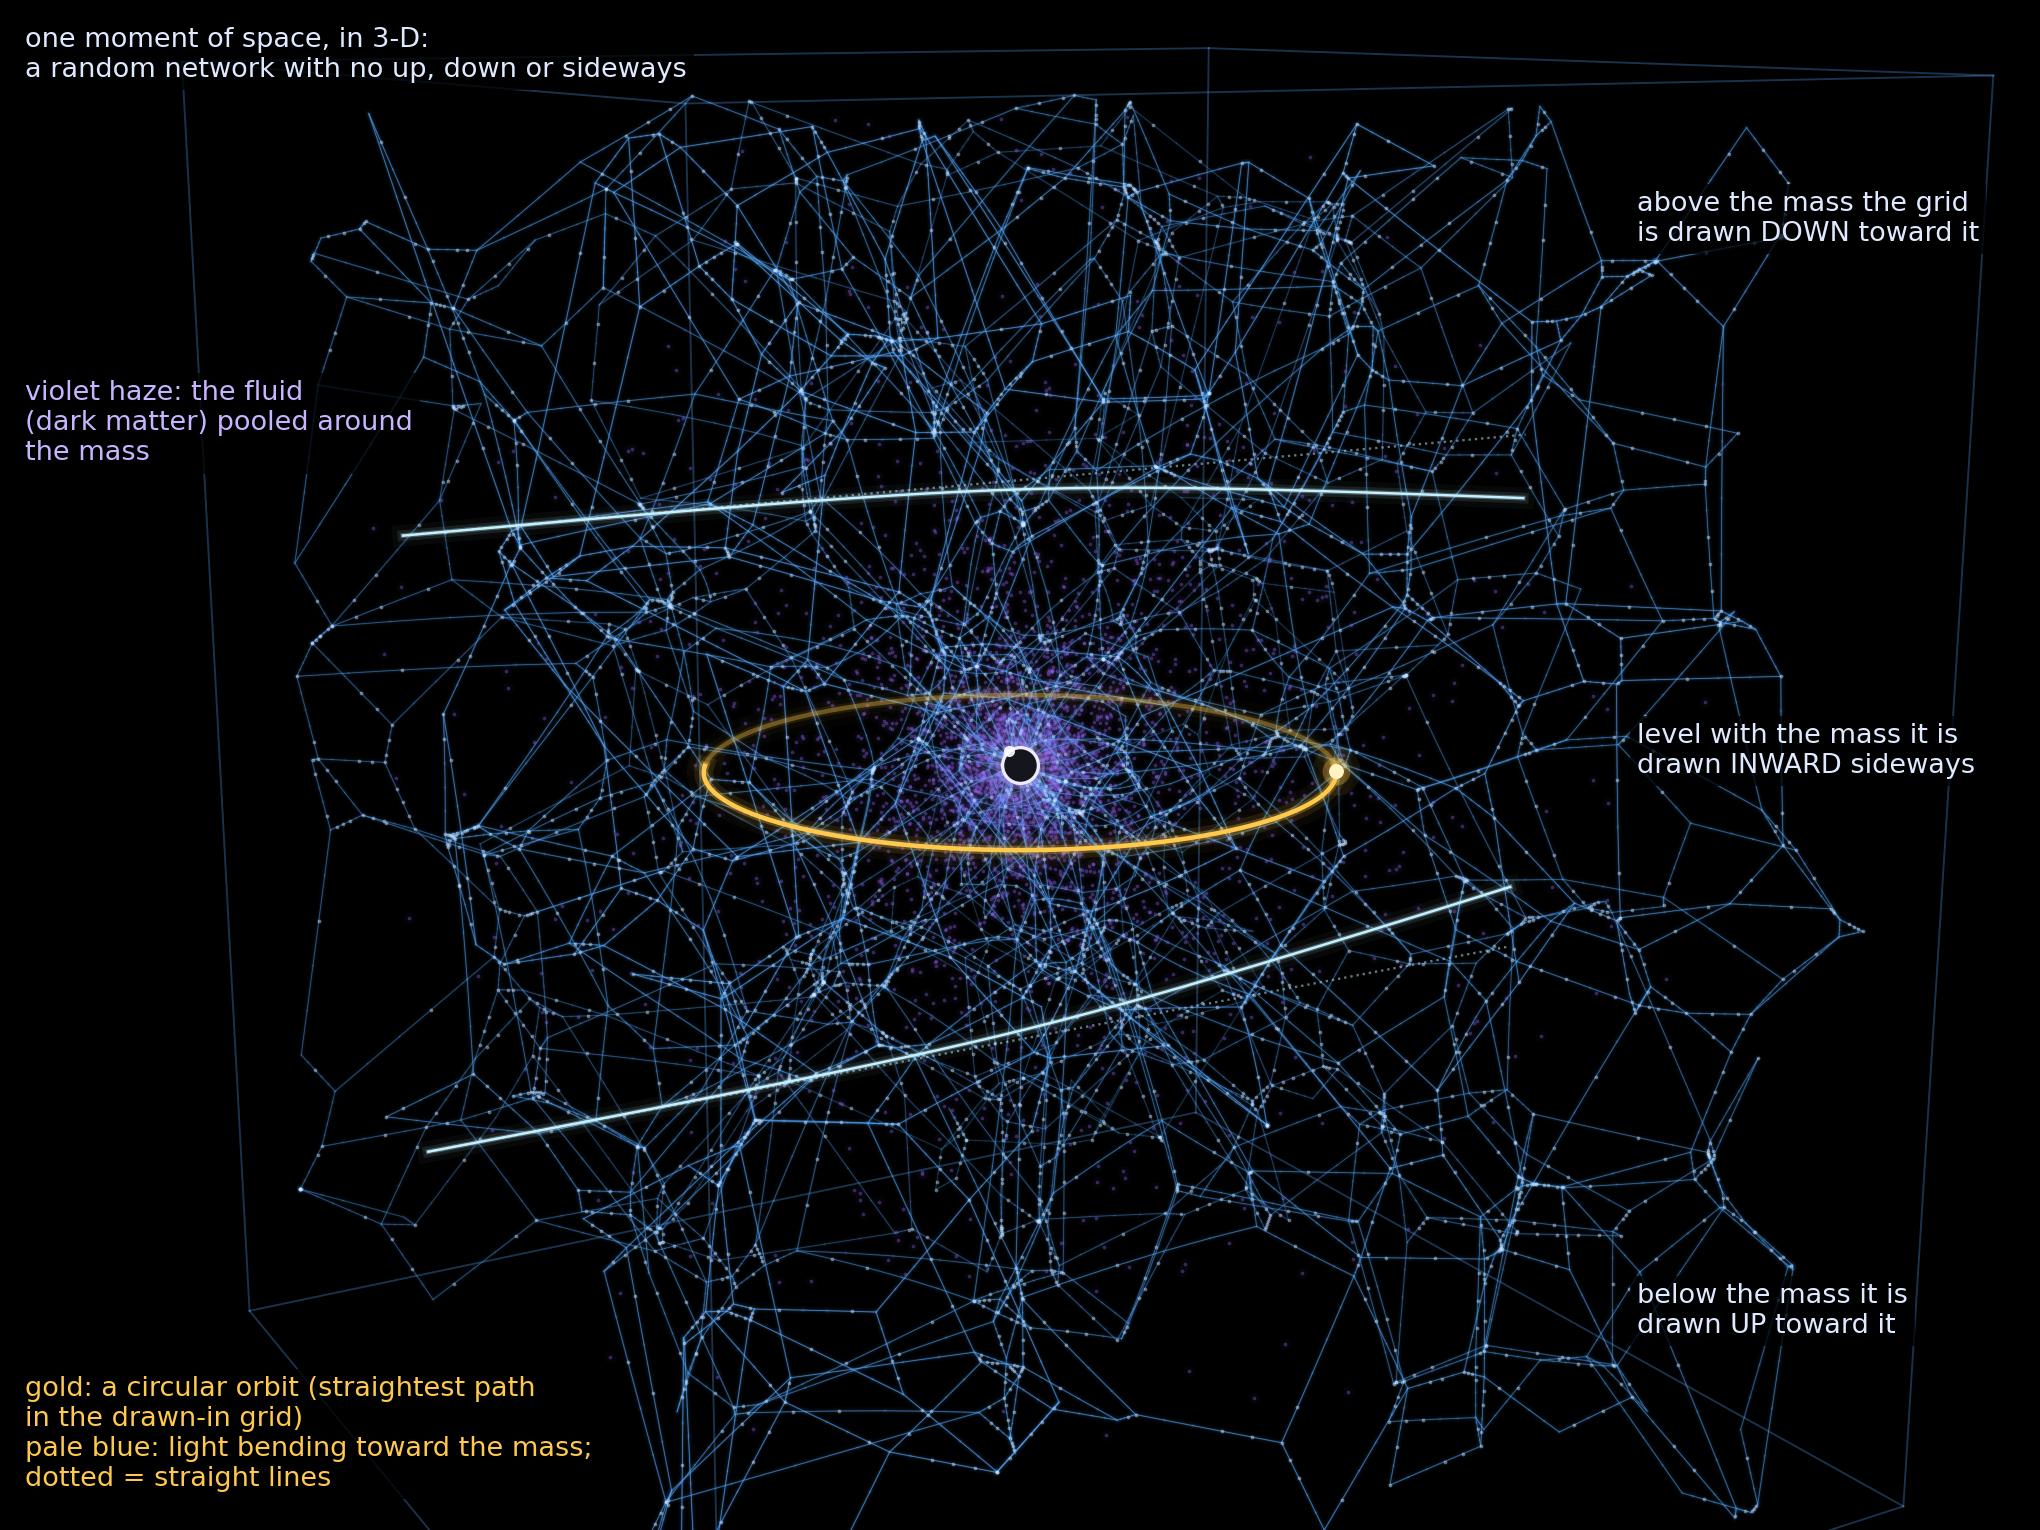
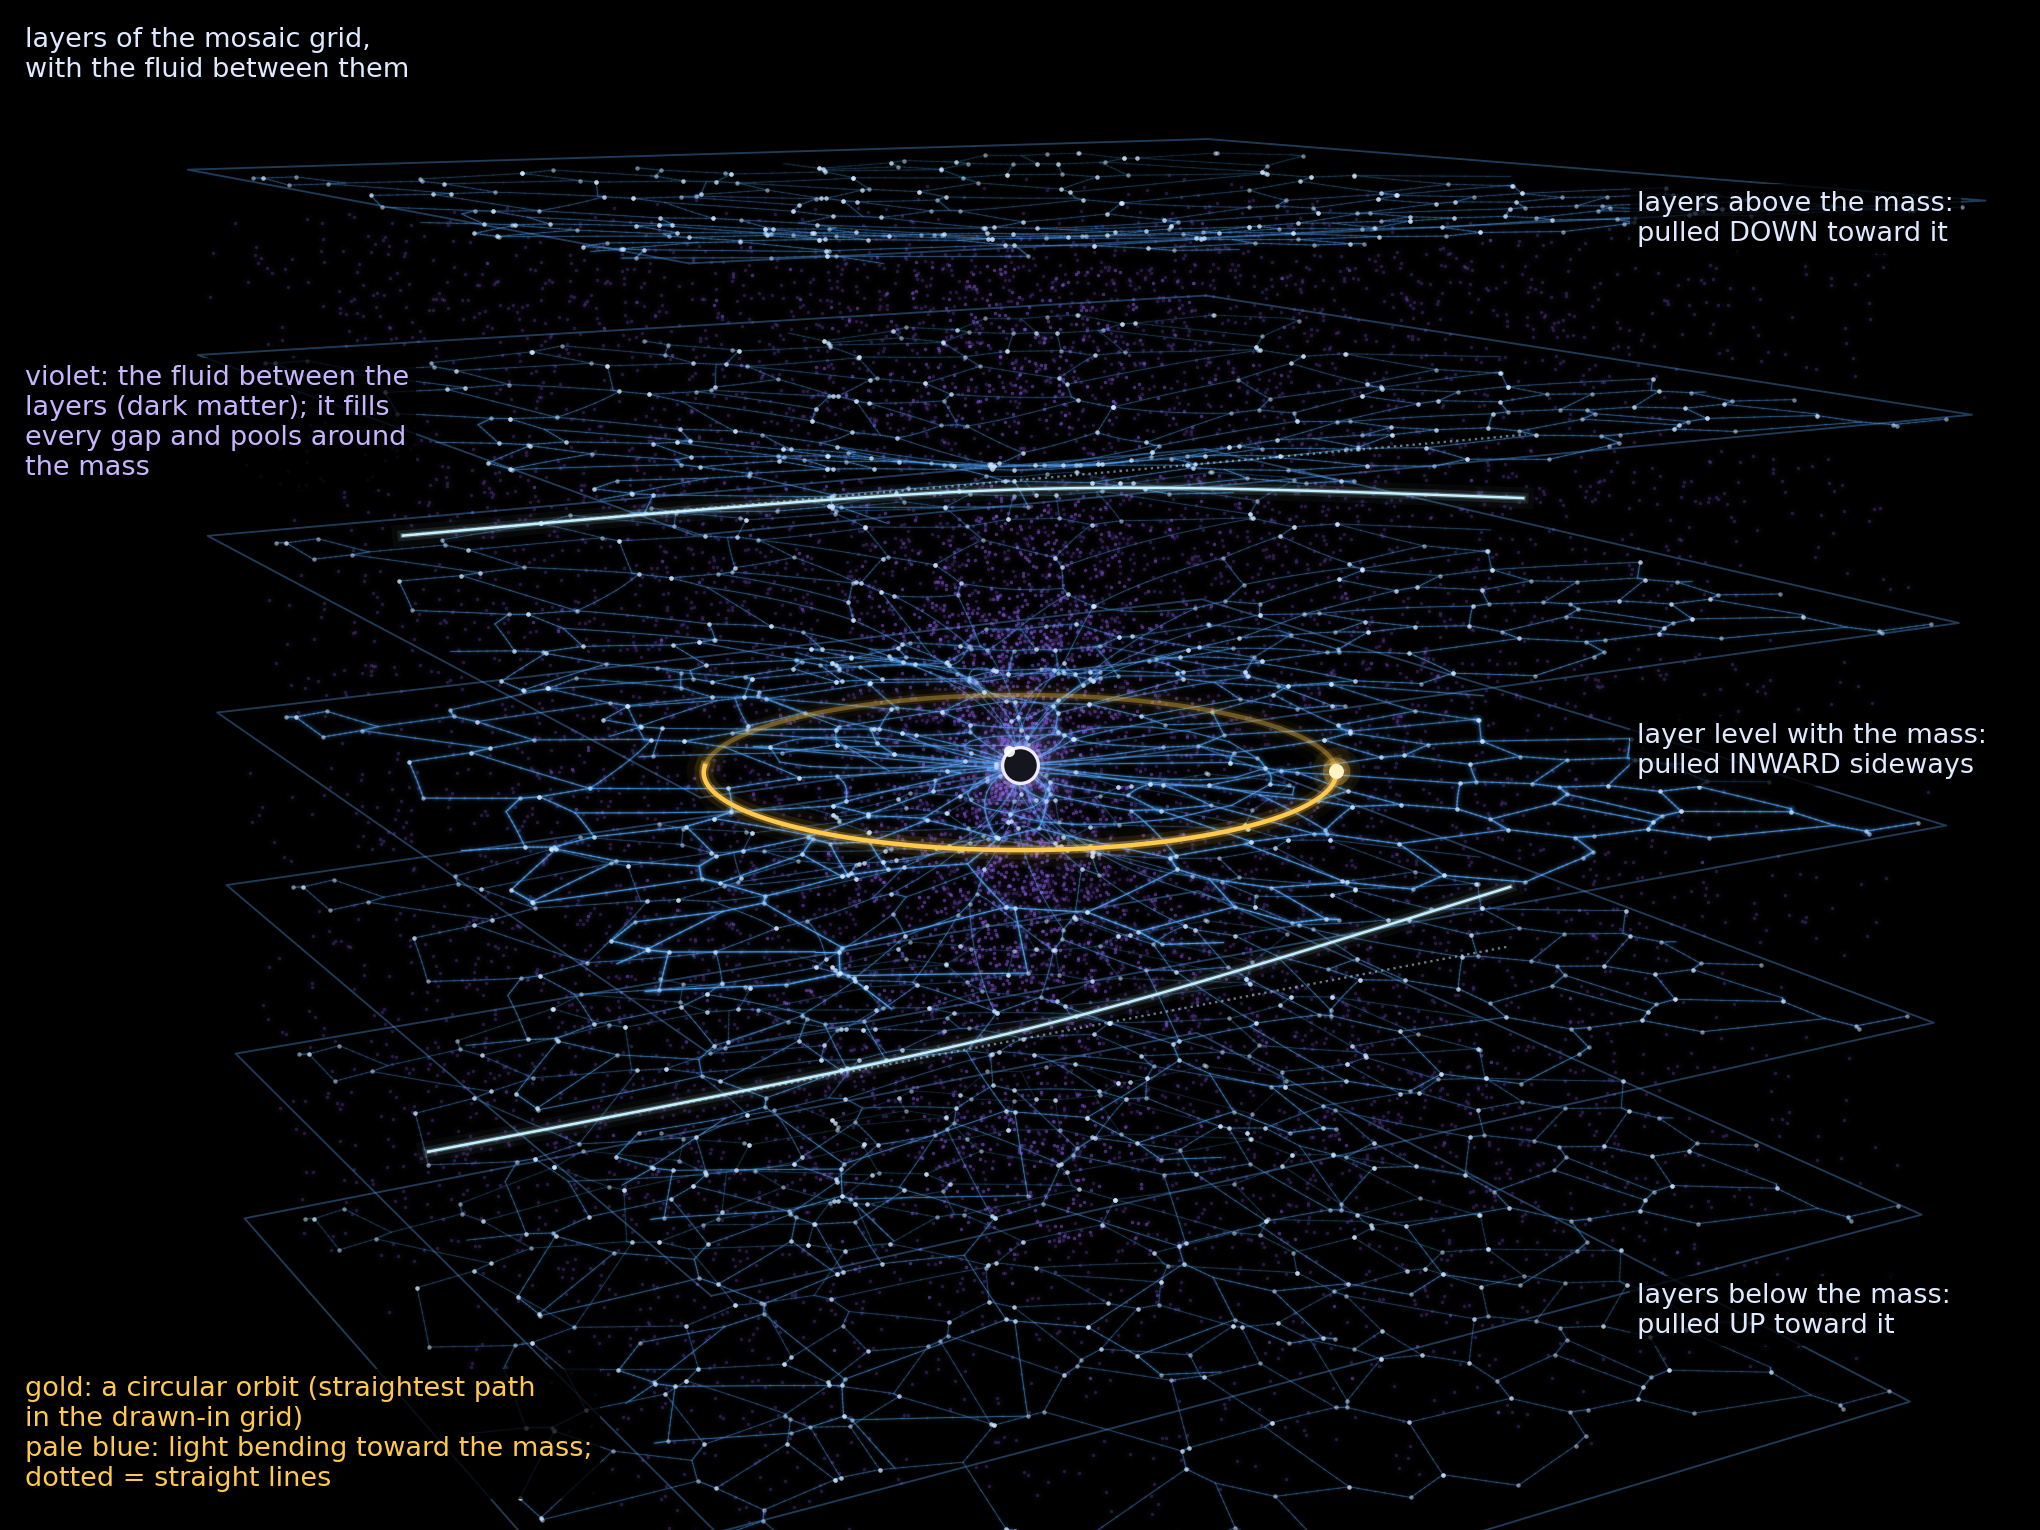
Cover: seven mosaic layers with fluid between them, no rods; caption notes the layer-reading open point
Claude-Session: https://claude.ai/code/session_016k7v6sHn149ac7ZSsVGsYx

diff --git a/paper/figures/make_hero3d.py b/paper/figures/make_hero3d.py
@@ -54,40 +54,28 @@ def ray(p0, v0, k=0.045, T=2.6):
     s = solve_ivp(f, [0, T], np.r_[p0, v0], max_step=0.004, rtol=1e-9); X = s.y[:3].T
     return X[np.all(np.abs(X[:, :2]) <= 1.0, axis=1)]
 
-
-# ---- true 3-D random network (no planes, no preferred direction) ----
-P3 = np.random.default_rng(9).uniform(-1.15, 1.15, (340, 3)); V3 = Voronoi(P3); NET = []
-for rv in V3.ridge_vertices:
-    if -1 in rv: continue
-    poly = V3.vertices[rv]
-    if np.any(np.abs(poly) > 1.0): continue
-    for i in range(len(poly)):
-        a, b = poly[i], poly[(i + 1) % len(poly)]; NET.append((tuple(np.round(a, 9)), tuple(np.round(b, 9))))
-NET = np.array(list({tuple(sorted(e)) for e in NET}))          # unique edges
-def net_segments():
-    segs = []
-    for a, b in NET:
-        t = np.linspace(0, 1, 6)[:, None]; pts = a + (b - a)*t; q = pull(pts)
-        segs += [np.array([q[i], q[i + 1]]) for i in range(5)]
-    return np.array(segs)
-
 def render(labels):
     fig = plt.figure(figsize=(12, 9), facecolor="black"); ax = fig.add_axes([0, 0, 1, 1]); ax.set_facecolor("black")
     ax.set_xlim(-1.62, 1.62); ax.set_ylim(-1.12, 1.12); ax.axis("off")
-    # fluid: a round cloud pooled around the mass (dark matter halo), drawn faint
-    n = 5000; u = rng.uniform(0, 1, n); r = 0.2*(u/(1 - u + 0.02))**0.8; r = r[(r < 1.1) & (r > 0.05)]
-    v = rng.normal(size=(len(r), 3)); v /= np.linalg.norm(v, axis=1, keepdims=True); F = v*r[:, None]
-    F = F[np.all(np.abs(F) <= [1, 1, 0.95], axis=1)]; F2, _ = proj(F)
-    ax.scatter(*F2.T, s=24, color=FLU, alpha=0.03, lw=0, zorder=1); ax.scatter(*F2.T, s=2.5, color=FLU, alpha=0.35, lw=0, zorder=1)
-    # the grid: a random 3-D network (cell edges), every part drawn in toward the mass
-    segs = net_segments(); glow_lines(ax, segs, GRID, width=0.55, zo=3, alpha=0.85)
-    nodes = np.unique(segs.reshape(-1, 3), axis=0); n2, _ = proj(nodes[::3])
-    ax.scatter(*n2.T, s=2.5, color="#d5e8ff", alpha=0.45, lw=0, zorder=4)
-    box = np.array([[x, y, z] for x in (-1, 1) for y in (-1, 1) for z in (-1, 1)])
-    for i in range(8):
-        for j in range(i + 1, 8):
-            if np.sum(box[i] != box[j]) == 1:
-                b2, _ = proj(np.array([box[i], box[j]])); ax.plot(*b2.T, color=GRID, lw=0.8, alpha=0.3, zorder=2)
+    # fluid between the layers: a thin 'ocean' filling every gap, thicker where it has pooled around the mass
+    for z_lo, z_hi in zip(PLANES[:-1], PLANES[1:]):
+        nb = 1400; xy = rng.uniform(-1, 1, (nb, 2)); zb = rng.uniform(z_lo + 0.04, z_hi - 0.04, nb)
+        base = pull(np.c_[xy, zb])
+        n = 1700; u = rng.uniform(0, 1, n); r = 0.16*(u/(1 - u + 0.02))**0.8; r = r[(r < 1.2) & (r > 0.06)]
+        ph = rng.uniform(0, 2*np.pi, len(r)); zp = rng.uniform(z_lo + 0.04, z_hi - 0.04, len(r))
+        d3 = np.sqrt(r**2 + zp**2); keep = rng.uniform(0, 1, len(r)) < np.exp(-d3/0.45)
+        pool = pull(np.c_[r*np.cos(ph), r*np.sin(ph), zp][keep])
+        for pts, al in ((base, 0.22), (pool, 0.42)):
+            pts = pts[np.all(np.abs(pts[:, :2]) <= 1, axis=1)]; F2, _ = proj(pts)
+            ax.scatter(*F2.T, s=22, color=FLU, alpha=0.025, lw=0, zorder=1); ax.scatter(*F2.T, s=2.3, color=FLU, alpha=al, lw=0, zorder=1)
+    # planes of the grid, back-to-front
+    for z0 in PLANES:
+        segs = plane_segments(z0); w = 1.0 if z0 == 0 else 0.7
+        glow_lines(ax, segs, GRID, width=0.75*w, zo=3, alpha=1.0 if z0 == 0 else 0.8 - 0.35*abs(z0))
+        nodes = proj(pull(np.c_[np.array([a for a, b in E]), np.full(len(E), z0)]))[0]
+        ax.scatter(*nodes.T, s=3.5, color="#d5e8ff", alpha=0.5, lw=0, zorder=4)
+        fr = np.array([[-1, -1, z0], [1, -1, z0], [1, 1, z0], [-1, 1, z0], [-1, -1, z0]]); f2, _ = proj(fr)
+        ax.plot(*f2.T, color=GRID, lw=0.8, alpha=0.35, zorder=2)
     # geodesic 1: circular orbit in the central plane
     th = np.linspace(0, 2*np.pi, 400); R = 0.5; O = np.c_[R*np.cos(th), R*np.sin(th), 0*th]
     O2, d = proj(O); front = d < 0
@@ -110,12 +98,12 @@ def render(labels):
     if labels:
         def lab(xy, txt, col="#dfe9ff", ha="left"):
             ax.text(*xy, txt, color=col, fontsize=11.5, ha=ha, va="center", zorder=20, bbox=dict(fc="black", ec="none", alpha=0.75, pad=3))
-        lab((-1.58, 1.04), "one moment of space, in 3-D:\na random network with no up, down or sideways")
-        lab((0.98, 0.8), "above the mass the grid\nis drawn DOWN toward it")
-        lab((0.98, 0.02), "level with the mass it is\ndrawn INWARD sideways")
-        lab((0.98, -0.8), "below the mass it is\ndrawn UP toward it")
+        lab((-1.58, 1.04), "layers of the mosaic grid,\nwith the fluid between them")
+        lab((0.98, 0.8), "layers above the mass:\npulled DOWN toward it")
+        lab((0.98, 0.02), "layer level with the mass:\npulled INWARD sideways")
+        lab((0.98, -0.8), "layers below the mass:\npulled UP toward it")
         lab((-1.58, -0.98), "gold: a circular orbit (straightest path\nin the drawn-in grid)\npale blue: light bending toward the mass;\ndotted = straight lines", GOLD)
-        lab((-1.58, 0.5), "violet haze: the fluid\n(dark matter) pooled around\nthe mass", "#c8b5ff")
+        lab((-1.58, 0.5), "violet: the fluid between the\nlayers (dark matter); it fills\nevery gap and pools around\nthe mass", "#c8b5ff")
     return fig
 for lab, name in ((False, "fig0_grid3d"), (True, "fig0_grid3d_labelled")):
     f = render(lab); f.savefig(os.path.join(HERE, name + ".png"), dpi=170, facecolor="black"); plt.close(f); print("wrote", name)

diff --git a/paper/figures/CAPTIONS.md b/paper/figures/CAPTIONS.md
@@ -7,14 +7,19 @@ breaks, so a reader or auditor can see what the picture claims and what it does 
 
 ---
 
-## Figure 0 (overview / cover). One moment of space in 3-D, drawn in toward a mass from every side
-**Caption.** The grid at one moment, shown in full 3-D: the edges of a random network of cells (Figure 10) filling a
-cube. The network has no planes, columns or preferred direction; up, down and sideways are all alike. A mass draws the
-grid in toward itself from every direction: above the mass the network is drawn down, below it drawn up, level with it
-drawn inward sideways, and less and less with distance (softened inverse-square, the shape computed in Figure 2). The
-fluid (dark matter, violet haze) pools around the mass in a round cloud. Gold: a circular orbit, the straightest path
-available in the drawn-in grid. Pale blue: light passing above and below the mass bends toward it. Dotted lines show
-where it would go without the mass. Bending is computed by 3-D ray tracing and exaggerated.
+## Figure 0 (overview / cover). Layers of the mosaic grid, the fluid between them, and a mass pulling on them
+**Caption.** Seven layers of the mosaic grid (random cells joined by links that carry tension), with the fluid between
+them (dark matter, violet), which fills every gap and has pooled around the mass. The mass pulls on the grid from every
+side: the layer level with it is pulled inward sideways, the layers above are pulled down toward it, and the layers
+below are pulled up toward it. The pull weakens with distance (softened inverse square, the shape computed in Figure 2).
+The pattern is the same above and below because gravity pulls equally in all directions; the grid itself is random, not
+symmetric. Gold: a circular orbit, the straightest path available in the pulled grid. Pale blue: light passing above and
+below the mass bends toward it. Dotted lines show where it would go without the mass. Bending is computed by 3-D ray
+tracing and exaggerated.
+
+**Open point for the text.** In the relativistic version (Khronon) the layers are read as successive moments of time;
+the figure draws them stacked in space to show how the pull acts above, beside and below a mass. Which reading the paper
+uses is to be settled between the authors.
 
 **Why not the rubber sheet.** The usual stretched-blanket picture shows space dipping *downward*. That needs an extra
 direction for the dip and uses 'downhill' (gravity) to explain gravity. In 3-D there is no 'down': every part of the grid
